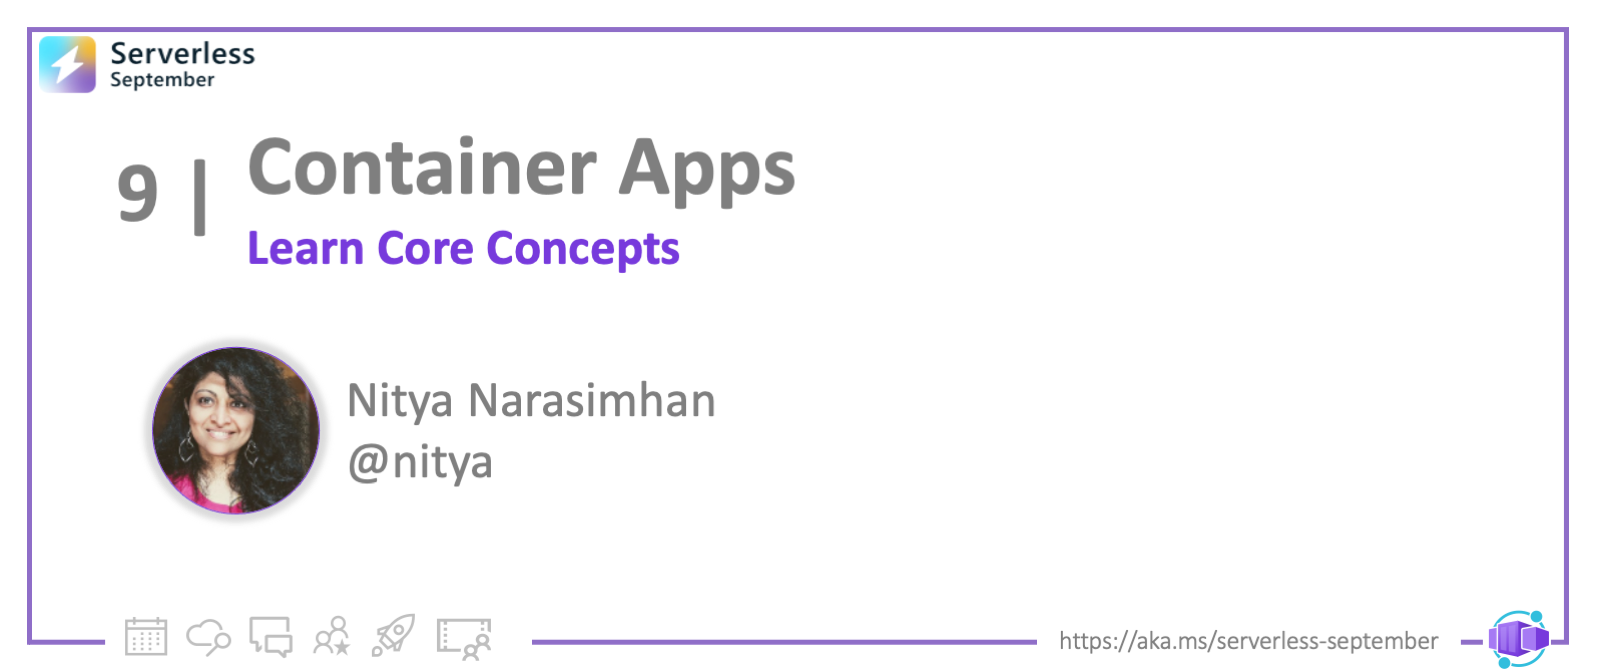
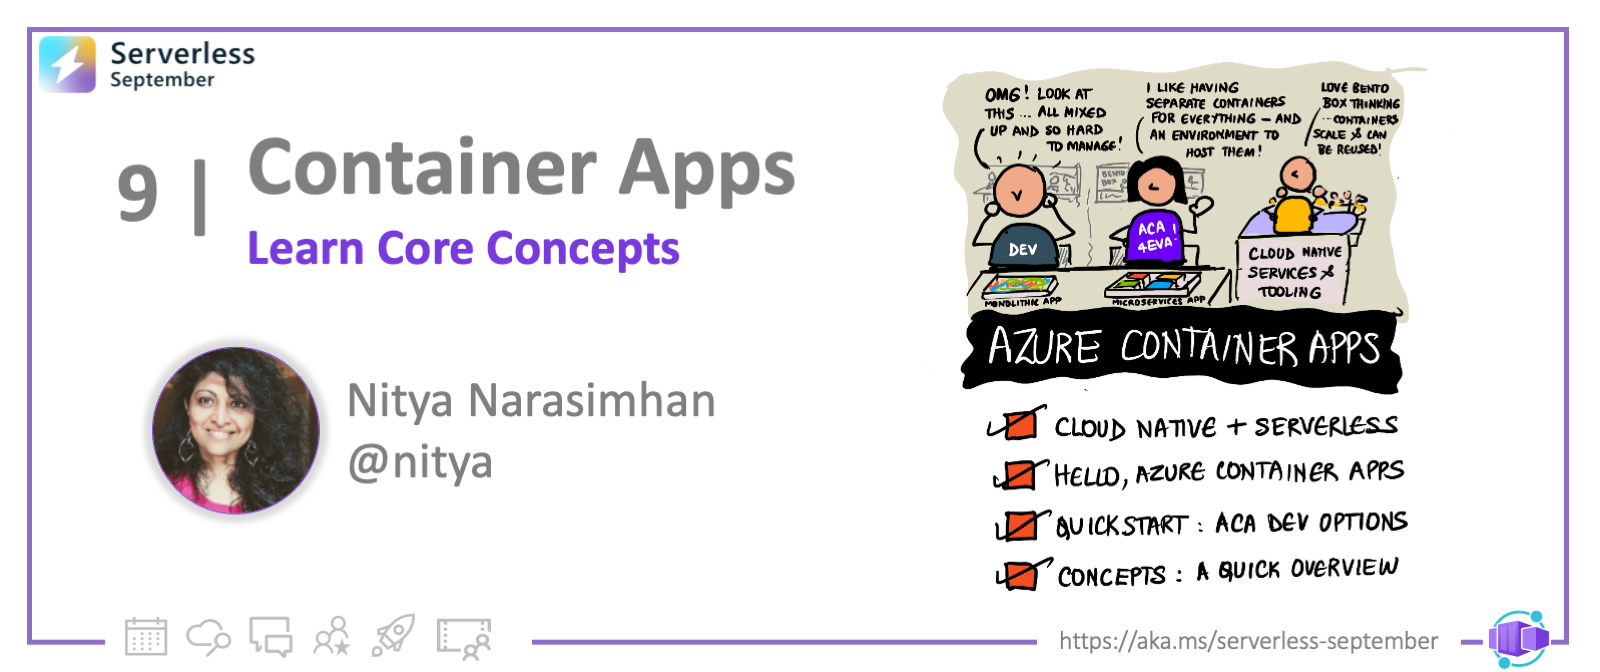
Update #29 - Post #9 Ready To Publish

Changed region(s): [[0.5938, 0.0938, 0.9062, 0.6562], [0.625, 0.6875, 0.875, 0.875]]

diff --git a/website/blog/2022-09-09/index.md b/website/blog/2022-09-09/index.md
@@ -8,18 +8,17 @@ toc_min_heading_level: 2
 toc_max_heading_level: 3
 keywords: [azure, functions, serverless, concepts]
 image: ./img/banner.png
-description: "<FIXME>" 
+description: "Kickstarting Week 2 of #30DaysOfServerless with an introduction to Azure Container Apps and core concepts relevant to building microservices-driven solutions" 
 tags: [serverless-september, 30-days-of-serverless,  azure-container-apps, dapr, microservices]
 ---
 
-<!-- FIXME -->
 <head>
   <meta name="twitter:url" 
-    content="https://azure.github.io/Cloud-Native/blog/functions-1" />
+    content="https://azure.github.io/Cloud-Native/blog/09-aca-fundamentals" />
   <meta name="twitter:title" 
-    content="#30DaysOfServerless: Azure Functions Fundamentals" />
+    content="#30DaysOfServerless: Introduction to Container Apps Core Concepts" />
   <meta name="twitter:description" 
-    content="#30DaysOfServerless: Azure Functions Fundamentals" />
+    content="#30DaysOfServerless: Introduction to Container Apps Core Concepts" />
   <meta name="twitter:image"
     content="https://azure.github.io/Cloud-Native/img/banners/post-kickoff.png" />
   <meta name="twitter:card" content="summary_large_image" />
@@ -27,7 +26,7 @@ tags: [serverless-september, 30-days-of-serverless,  azure-container-apps, dapr,
     content="@nitya" />
   <meta name="twitter:site" content="@AzureAdvocates" /> 
   <link rel="canonical" 
-    href="https://azure.github.io/Cloud-Native/blog/08-functions-azure" />
+    href="https://azure.github.io/Cloud-Native/blog/09-aca-fundamentals" />
 </head>
 
 ---
@@ -37,10 +36,10 @@ Welcome to `Day 9` of #30DaysOfServerless!
 ---
 
 ## What We'll Cover
- * Section 1
- * Section 2
- * Section 3
- * Section 4
+ * The Week Ahead
+ * Hello, Container Apps!
+ * Quickstart: Build Your First ACA!
+ * Under The Hood: Core ACA Concepts
  * Exercise: Try this yourself!
  * Resources: For self-study!
 
@@ -48,15 +47,235 @@ Welcome to `Day 9` of #30DaysOfServerless!
 
 ---
 
+## The Week Ahead
 
-## Section 1
+Welcome to Week 2 of #ServerlessSeptember, where we put the focus on **Microservices** and building Cloud Native applications that are optimized for **serverless** solutions on Azure. One week is not enough to do this complex topic justice so designed a 7-part story that can help jumpstart the journey.
 
-## Section 2
+ 1. **Hello, Container Apps (ACA)** - We start today by introducing Azure Container Apps, a key service that helps you _run microservices and containerized apps on a serverless platform_ - and learn the core concepts. (_Tutorial 1: First ACA_)
+ 2. **Communication with Microservices** - We'll dive into core concepts on environments and virtual networking, and learn how microservices communicate in ACA. _(Tutorial 2: ACA with 3 Microservices)_
+ 3. **Scaling Your Container Apps** - We'll talk about what KEDA is and how you can configure your ACA for auto-scaling with KEDA-supported triggers - and see this in action for a couple of examples, with a tutorial. _(Tutorial 3: Configure Autoscaling_)
+ 4. **Hello, Distributed Application Runtime (Dapr)** - We'll introduce Dapr, a rich set of _Building Block APIs_ that simplifies microservices development with ACA. Dapr implements a _sidecar pattern_ allowing you to incrementally adopt capabilities to suit your needs. (_Tutorial 4: Setup & Explore Dapr_)
+ 5. **Building ACA with Dapr** - We'll look at how Dapr works with ACA, and build our first Dapr-enabled Azure Container Apps solution showcasing Pub/Sub and State Management APIs in the context of a fictitious enterprise scenario - using .NET. (_Tutorial 5: Build ACA with Dapr_)
+ 6. **Managed Identity and Secrets** - We'll look at some of the core security concepts in Azure Container Apps, focusing specifically on secrets management (storing and using sensitive values) and managed identities.
+ 7. **Microservices + Serverless On Azure** - We'll wrap the week up with a recap of activities, and set the stage for Week 3 with a focus on _Integrations_. We'll also have resources for self-study including additional posts walking through ACA development in different languages.
 
-## Section 3
+Ready? Let's go!
 
-## Section 4
+---
+
+## Azure Container Apps!
+
+When building your application, your first decision is about _where you host your application_. The [Azure Architecture Center has a handy chart](https://docs.microsoft.com/azure/architecture/guide/technology-choices/compute-decision-tree?WT.mc_id=javascript-74010-ninarasi) to help you decide between choices like Azure Functions, Azure App Service, Azure Container Instances, Azure Container Apps and more. But if you are new to this space, you'll need a good understanding of the terms and concepts behind the services Today, we'll focus on _Azure Container Apps_ (ACA), going from basic definitions to core concepts.
+
+
+###  Containerized Apps: A Primer
+
+A containerized app is one where the application components, dependencies, and configuration, are packaged into a single file (**container image**), which can be instantiated in an isolated runtime environment (**container**) that is portable across hosts (OS). This makes containers lightweight and scalable - and ensures that applications behave consistently on different host platforms.
+
+Container images can be shared via  **container registries** (public or private) helping developers discover and deploy related apps with less effort. **Scaling** a containerized app can be as simple as activating more instances of its container image. However, this requires **container orchestrators** to now automate management of container apps for efficiency. Orchestrators use technologies like Kubernetes to support capabilities like _workload scheduling, self-healing and auto-scaling on demand_.
+
+### Cloud Native & Microservices
+
+Containers are seen as one of the [5 pillars of Cloud Native app development](https://techcommunity.microsoft.com/t5/apps-on-azure-blog/go-cloud-native-with-azure-container-apps/ba-p/3616407?WT.mc_id=javascript-74010-cxa), an approach that emphasizes tailoring applications to take advantage of the unique benefits of modern dynamic environments (involving public, private and hybrid clouds). Containers are **particularly suited to serverless solutions based on microservices**.
+
+ * _With serverless_ - developers use **managed services** instead of managing infrastructure. Services are event-driven and can be configured for autoscaling with rules and triggers. This is cost-effective, with developers paying only for the compute cycles and resources they use.
+ * _With microservices_ - developers **compose applications from independent components**. Each can be deployed in its own container, and scaled at that granularity. This simplifies component reuse (across apps) and maintainability - allowing developers to evolve app functionality at microservice levels.
+
+### Hello, Azure Container Apps!
+
+Azure Container Apps is the managed service that helps you run containerized apps and microservices as a serverless compute solution, on Azure. You can:
+
+ * deploy serverless API endpoints - autoscaled by HTTP request traffic
+ * host background processing apps - autoscaled by CPU or memory load
+ * handle event-driven processing - autoscaled by #messages in queue
+ * run microservices - autoscaled by any KEDA-supported scaler.
+
+Want a quick intro to the topic? Start by watching the short video below - then read these two posts from our _ZeroToHero_ series:
+ * [Go cloud native with Azure Container Apps](https://techcommunity.microsoft.com/t5/apps-on-azure-blog/go-cloud-native-with-azure-container-apps/ba-p/3616407?WT.mc_id=javascript-74010-cxa) - also see [the illustrated guide](http://localhost:3000/Cloud-Native/assets/images/Go-Cloud-Native-f6ac3225c3d9741a1fbff81030f7f830.png)
+ * [Journey to the cloud with Azure Container Apps](https://techcommunity.microsoft.com/t5/apps-on-azure-blog/journey-to-the-cloud-with-azure-container-apps/ba-p/3622609?WT.mc_id=javascript-74010-cxa) - for developer tooling options.
+
+<iframe width="600" height="400" src="https://www.youtube.com/embed/b3dopSTnSRg" title="How to Build and Deliver Apps Fast and Scalable with Azure Container Apps" frameborder="0" allow="accelerometer; autoplay; clipboard-write; encrypted-media; gyroscope; picture-in-picture" allowfullscreen></iframe>
+
+---
+
+## Deploy Your First ACA
+
+### Dev Options
+
+We typically have **three options** for development:
+ * Use the [Azure Portal](https://docs.microsoft.com/en-us/azure/container-apps/get-started-existing-container-image-portal?pivots=container-apps-private-registry) - provision and deploy from a browser.
+ * Use [Visual Studio Code](https://docs.microsoft.com/en-us/azure/container-apps/deploy-visual-studio-code) (with relevant extensions) - if you prefer an IDE
+ * Using [Azure CLI](https://docs.microsoft.com/en-us/azure/container-apps/get-started-existing-container-image?tabs=bash&pivots=container-apps-private-registry) - if you prefer to build and deploy from command line.
+
+The documentation site has quickstarts for three contexts:
+ * [using a sample container image](https://docs.microsoft.com/en-us/azure/container-apps/quickstart-portal) - pre-existing example on Azure for convenience
+ * [using a custom container image](https://docs.microsoft.com/en-us/azure/container-apps/get-started-existing-container-image-portal?pivots=container-apps-private-registry) - to understand container registry usage
+ * [using code on your local machine](https://docs.microsoft.com/en-us/azure/container-apps/quickstart-code-to-cloud?tabs=bash%2Ccsharp&pivots=acr-remote) - to start from source repo
+
+For this quickstart, we'll go with the first option (sample image) so we can move quickly to core concepts. We'll leave the others as an exercise for you to explore.
+
+### 1. Setup Resources
+
+:::info PRE-REQUISITES
+You need:
+ * An Azure account with an active subscription
+ * An installed [Azure CLI](https://docs.microsoft.com/en-us/cli/azure/install-azure-cli)
+:::
+
+Start by logging into Azure from the CLI. The command should launch a browser to complete the auth flow (or give you an option to take an alternative path).
+
+```bash
+$ az login
+```
+
+Successful authentication will result in extensive command-line output detailing the status of your subscription. 
+
+Next, install the Azure Container Apps extension for the CLI
+
+```bash
+$ az extension add --name containerapp --upgrade
+...
+The installed extension 'containerapp' is in preview.
+```
+
+Once successfully installed, register the `Microsoft.App` namespace.
+
+```bash
+$ az provider register --namespace Microsoft.App
+```
+
+Then set local _environment variables_ in that terminal - and verify they are set correctly:
+
+```bash
+$ RESOURCE_GROUP="my-container-apps"
+$ LOCATION="canadacentral"
+$ CONTAINERAPPS_ENVIRONMENT="my-environment"
+
+$ echo $LOCATION $RESOURCE_GROUP $CONTAINERAPPS_ENVIRONMENT
+canadacentral my-container-apps my-environment
+```
+
+Now you can use Azure CLI to provision a _resource group_ for this tutorial. Creating a resource group also makes it easier for us to delete/reclaim all resources used at the end of this tutorial.
+
+```bash
+az group create \
+  --name $RESOURCE_GROUP \
+  --location $LOCATION
+```
+
+:::success Congratulations
+
+You completed the Setup step!
+
+On completion, the console should print out the details of the newly created resource group. You should also be able to visit the Azure Portal and find the newly-active `my-container-apps` resource group under your active subscription.
+
+:::
+
+### 2. Create Environment
+
+An environment is like the picket fence around your property. It creates a _secure boundary_ that contains a group of container apps - such that all apps deployed to it share the same virtual network and logging resources.
+
+```bash
+$ az containerapp env create \
+  --name $CONTAINERAPPS_ENVIRONMENT \
+  --resource-group $RESOURCE_GROUP \
+  --location $LOCATION
+
+No Log Analytics workspace provided.
+Generating a Log Analytics workspace with name ...
+```
+This can take a few minutes. When done, you will see the terminal display more details. You can also check the resource group in the portal and see that a _Container Apps Environment_ and a _Log Analytics Workspace_ are created for you as part of this step.
+
+You've got the fence set up. Now it's time to build your home - er, container app!
+
+### 3. Create Container App
+
+Here's the command we'll use to create our first Azure Container App. Note that the `--image` argument provides the link to a pre-existing `containerapps-helloworld` image. 
+
+```bash
+az containerapp create \
+  --name my-container-app \
+  --resource-group $RESOURCE_GROUP \
+  --environment $CONTAINERAPPS_ENVIRONMENT \
+  --image mcr.microsoft.com/azuredocs/containerapps-helloworld:latest \
+  --target-port 80 \
+  --ingress 'external' \
+  --query properties.configuration.ingress.fqdn
+...
+...
+
+Container app created. Access your app at <URL>
+```
+
+The `--ingress` property shows that the app is open to _external_ requests; in other words, it is publicly visible at the `<URL>` that is printed out on the terminal on successsful completion of this step.
+
+### 4. Verify Deployment
+
+Let's see if this works. You can verify that your container app by visitng the URL returned above in your browser. You should see something like this!
+
+![Container App Hello World](img/container-app.png)
+
+You can also visit the Azure Portal and look under the created Resource Group. You should see a new `Container App` type of resource was created after this step.
+
+:::success Congratulations
+You just created and deployed your first "Hello World" Azure Container App! This validates your local development environment setup and existence of a valid Azure subscription.
+:::
+
+### 5. Clean Up Your Resources
+
+It's good practice to clean up resources once you are done with a tutorial. 
+
+:::warning THIS ACTION IS IRREVERSIBLE
+ This command deletes the resource group we created above - and all resources in it. So make sure you specified the right name, then confirm deletion.
+:::
+
+
+```bash
+$ az group delete --name $RESOURCE_GROUP
+Are you sure you want to perform this operation? (y/n): 
+```
+
+Note that you can also delete the resource group from the Azure Portal interface if that feels more comfortable. For now, we'll just use the Portal to verify that deletion occurred. If you had previously opened the Resource Group page for the created resource, just refresh it. You should see something like this:
+
+![Resource Not Found](./img/resource-not-found.png)
+
+---
+
+## Core Concepts
+
+:::info COMING SOON
+An illustrated guide summarizing these concepts in a single sketchnote.
+:::
+
+We covered a lot today - we'll stop with a quick overview of core concepts behind Azure Container Apps, each linked to documentation for self-study. We'll dive into more details on _some_ of these concepts in upcoming articles:
+
+ * [Environments](https://docs.microsoft.com/en-us/azure/container-apps/environment) - are the _secure boundary_ around a group of container apps that are deployed in the same virtual network. They write logs to a shared Log Analytics workspace and can communicate seamlessly using Dapr, if used.
+ * [Containers](https://docs.microsoft.com/en-us/azure/container-apps/containers) refer to the _container image_ deployed in the Azure Container App. They can use any runtime, programming language, or development stack - and be discovered using any public or private container registry. A container app can support multiple containers.
+ * [Revisions](https://docs.microsoft.com/en-us/azure/container-apps/revisions) are _immutable_ snapshots of an Azure Container App. The first revision is created when the ACA is first deployed, with new revisions created when redeployment occurs with [revision-scope changes](https://docs.microsoft.com/en-us/azure/container-apps/revisions#revision-scope-changes). Multiple revisions can run concurrently in an environment.
+ * [Application Lifecycle Management](https://docs.microsoft.com/en-us/azure/container-apps/application-lifecycle-management) revolves around these revisions, with a container app having three phases: _deployment_, _update_ and _deactivation_.
+ * [Microservices](https://docs.microsoft.com/en-us/azure/container-apps/microservices) are independent units of functionality in cloud native architectures. _A single container app typically represents a single microservice_, and can be composed from one or more containers. Microservices can now be scaled and upgraded indepedently, giving your application more flexbility and control.
+ * [Networking](https://docs.microsoft.com/en-us/azure/container-apps/networking) architecture consist of a virtual network (VNET) associated with the environment. Unless you provide a custom VNET at environment creation time, a default VNET is automatically created. The VNET configuration determines access (ingress, internal vs. external) and can influence auto-scaling choices (e.g., use HTTP Edge Proxy and scale based on number of HTTP requests).
+ * [Observability](https://docs.microsoft.com/en-us/azure/container-apps/observability) is about monitoring the health of your application and diagnosing it to improve reliability or performance. Azure Container Apps has a number of features - from Log streaming and Container console to integration with Azure Monitor - to provide a holistic view of application status over time.
+ * [Easy Auth](https://docs.microsoft.com/en-us/azure/container-apps/authentication) is possible with built-in support for authentication and authorization including support for popular identity providers like Facebook, Google, Twitter and GitHub - alongside the Microsoft Identity Platform.
+
+:::info DAPR INTEGRATION MADE EASY
+ 
+[Dapr integration](https://docs.microsoft.com/en-us/azure/container-apps/dapr-overview?tabs=bicep1%2Cyaml) uses a sidecar architecture, allowing Azure Container Apps to communicate with Dapr Building Block APIs over gRPC or HTTP. Your ACA can be built to run with or without Dapr - allowing you to _incrementally adopt_ specific APIs to unlock related capabilities as the need arises.
+:::
+
+![](https://docs.dapr.io/images/overview-sidecar-model.png)
 
 ## Exercise
 
+Congratulations! You made it! By now you should have a good idea of what Cloud Native development means, why Microservices and Containers are important to that vision - and how Azure Container Apps helps simplify the building and deployment of _microservices based applications_ using _serverless architectures_ on Azure.
+
+Now it's your turn to reinforce learning by doing.
+ * Try walking through this quickstart yourself, but [using the Azure Portal](https://docs.microsoft.com/en-us/azure/container-apps/quickstart-portal) option.
+ * Then try a [custom container image](https://docs.microsoft.com/en-us/azure/container-apps/deploy-visual-studio-code) option using Visual Studio Code, and validate your IDE-based setup for future tutorials.
+
 ## Resources
+
+Three key resources to bookmark and explore:
+ * [Azure Container Apps](https://docs.microsoft.com/en-us/azure/container-apps/) - documentation
+ * [Distributed Application Runtime (Dapr)](https://docs.dapr.io/) - documentation
+ * [Azure Container Apps](https://docs.microsoft.com/en-us/azure/container-apps/samples) - samples for exploration
